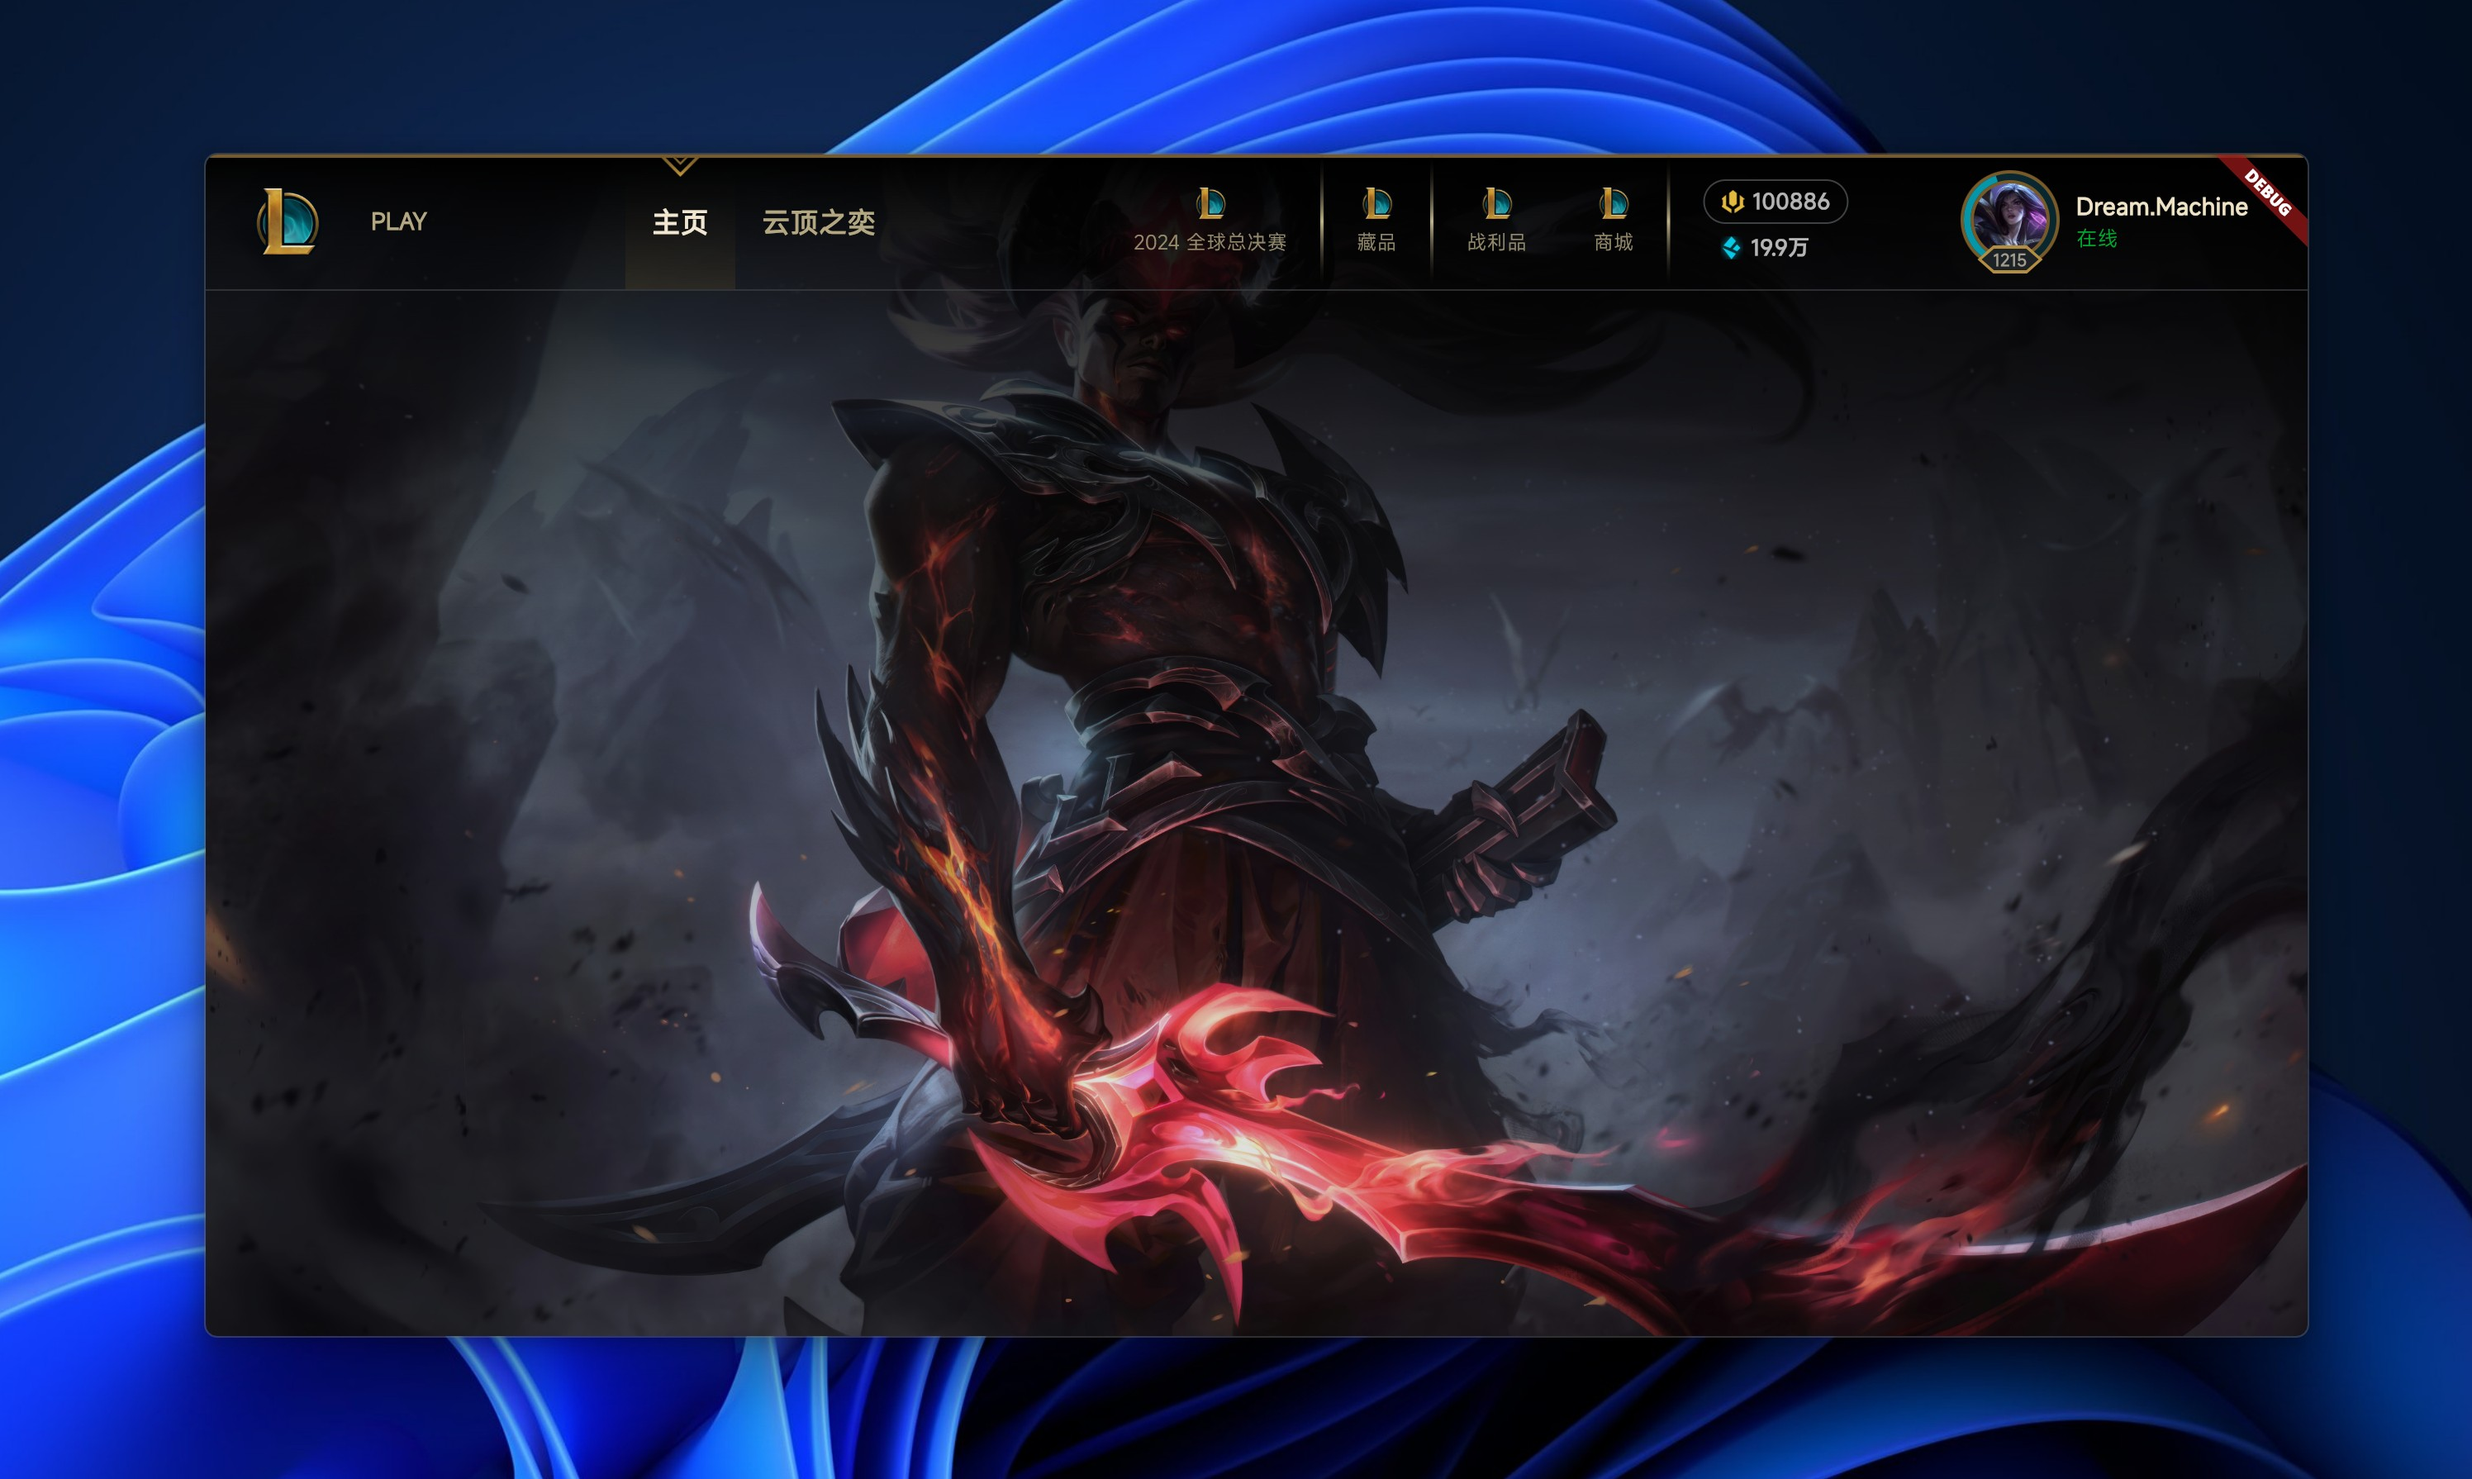
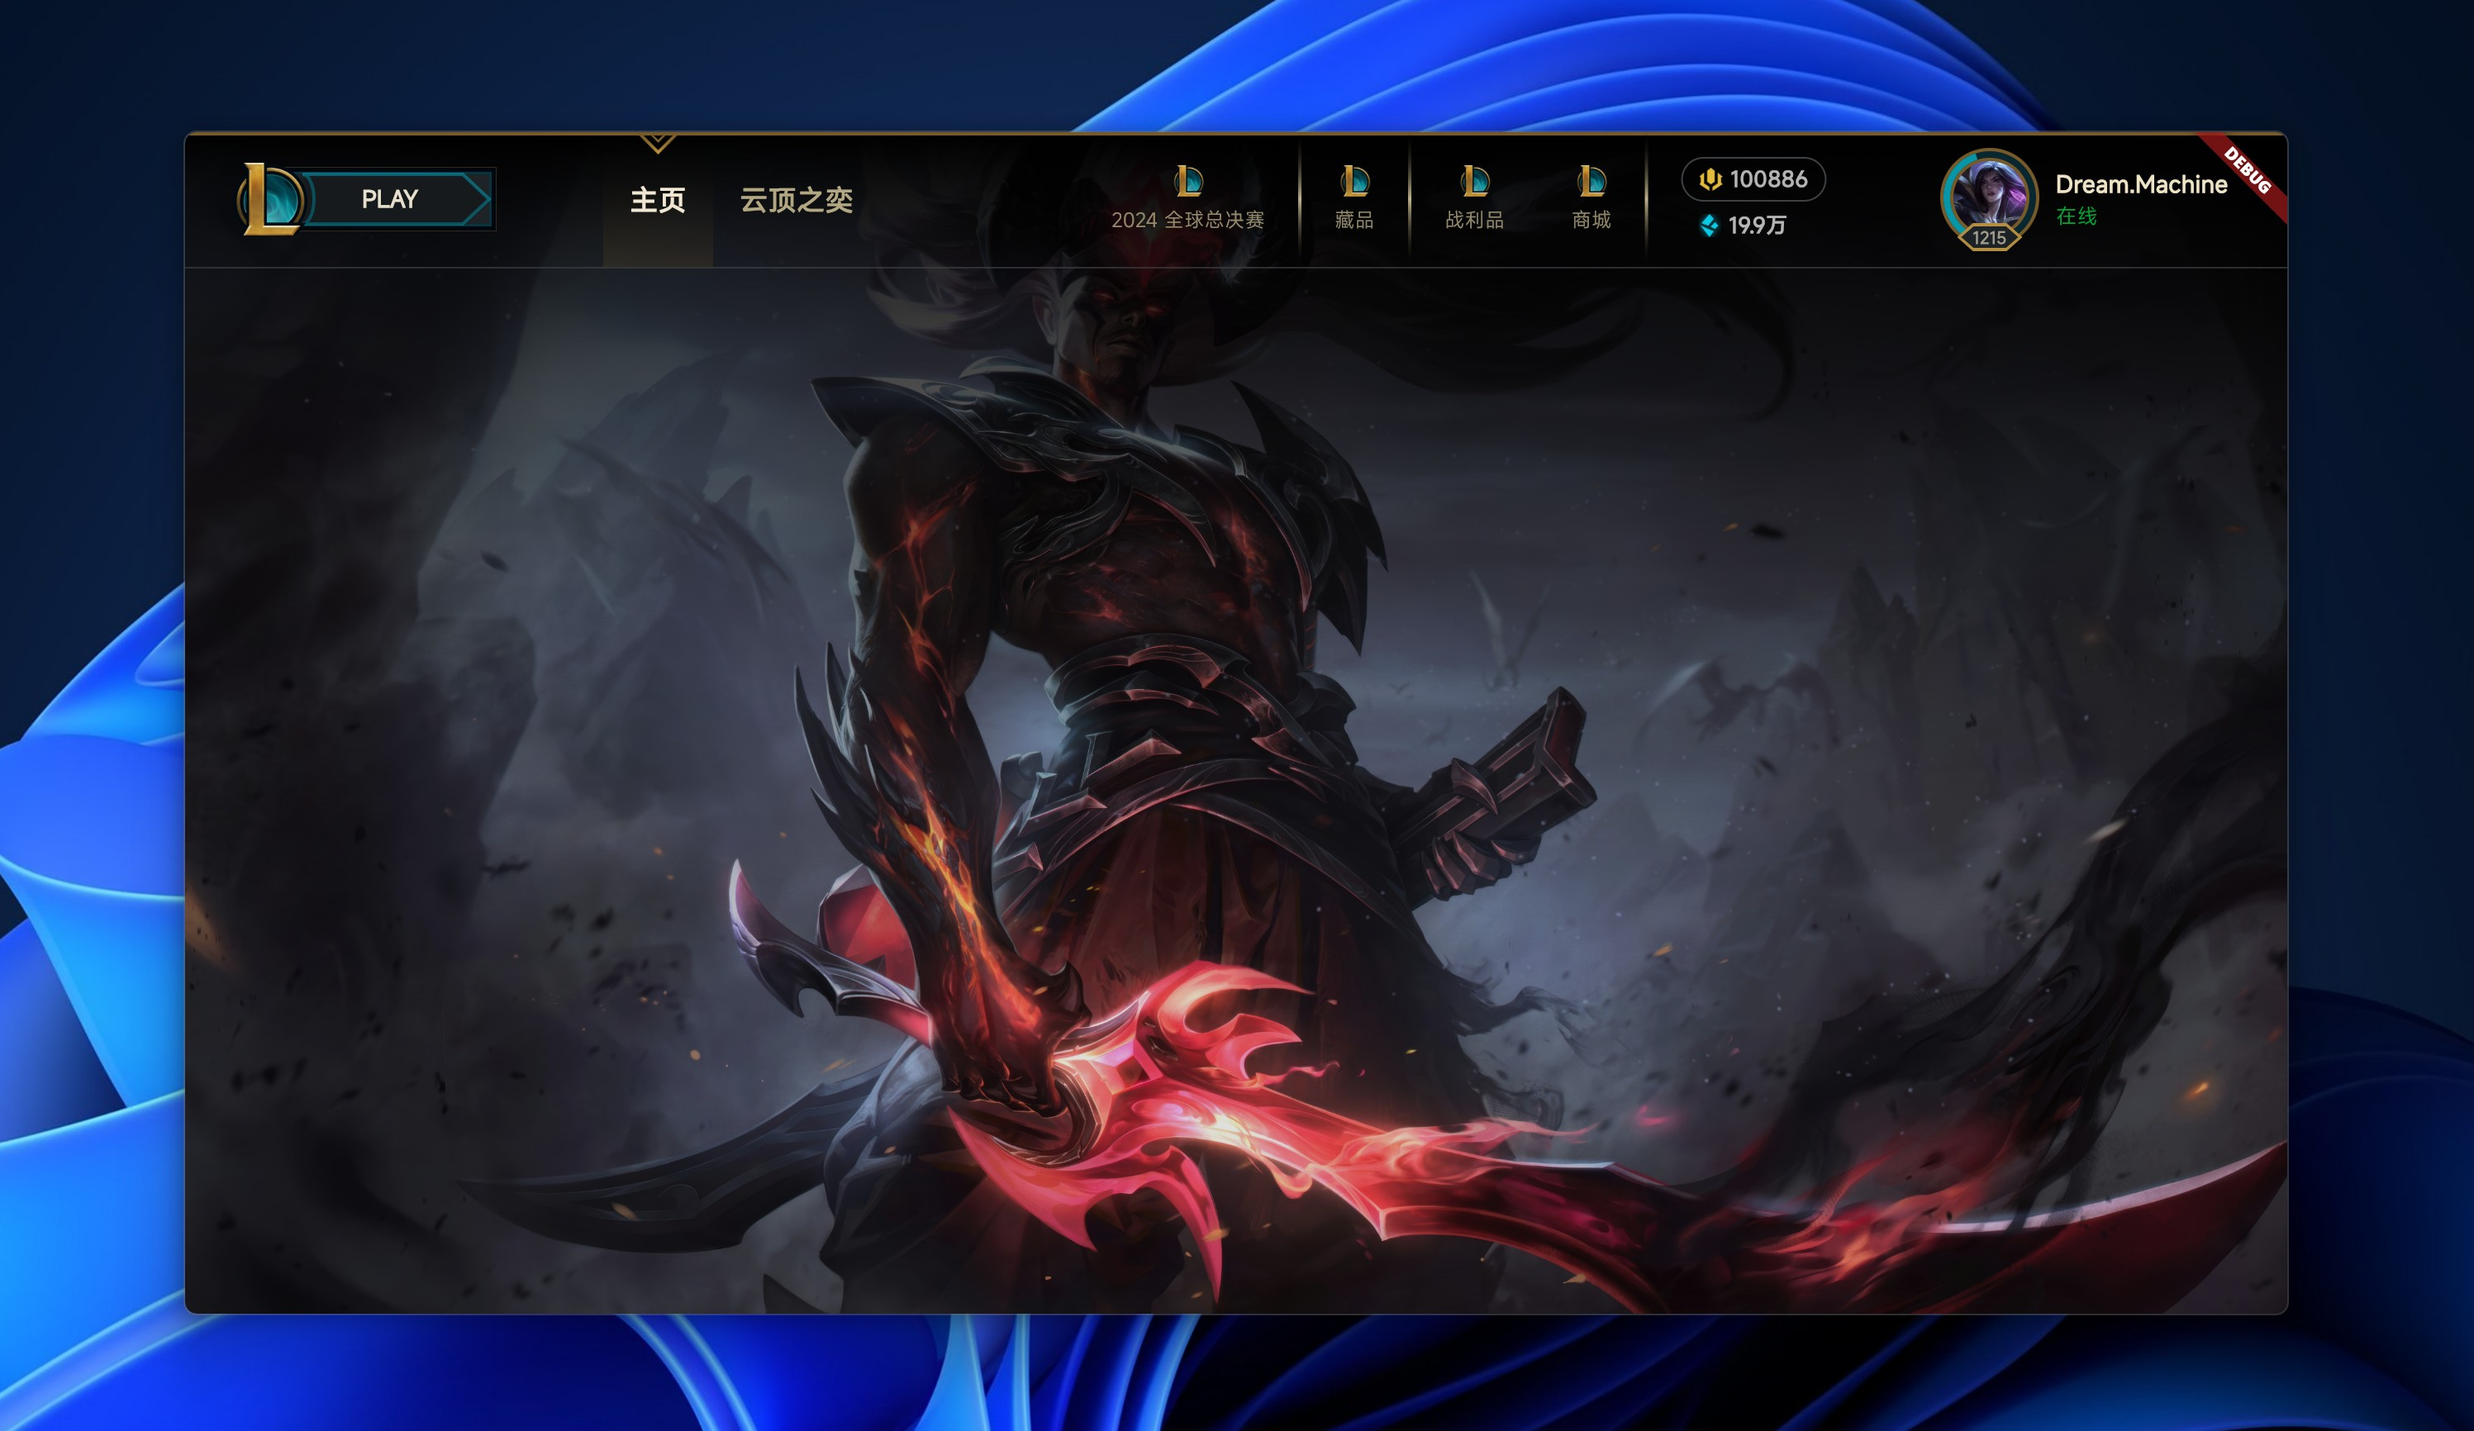
增加 开始游戏按钮

diff --git a/leagueoflegends/lib/pages/frame/widgets/top_play_button.dart b/leagueoflegends/lib/pages/frame/widgets/top_play_button.dart
@@ -1,0 +1,179 @@
+import 'dart:math';
+import 'dart:ui';
+
+import 'package:flutter/material.dart' hide Gradient;
+import 'package:leagueoflegends/common/index.dart';
+
+/// 顶部开始游戏按钮
+class TopPlayButton extends StatefulWidget {
+  const TopPlayButton({super.key});
+
+  @override
+  State<TopPlayButton> createState() => _TopPlayButtonState();
+}
+
+class _TopPlayButtonState extends State<TopPlayButton> {
+  bool hover = false;
+
+  @override
+  Widget build(BuildContext context) {
+    return SizedBox(
+      width: 160,
+      child: Stack(
+        fit: StackFit.expand,
+        children: [
+          Positioned(
+            left: 32,
+            right: 0,
+            top: 22,
+            bottom: 22,
+            child: MouseRegion(
+              cursor: SystemMouseCursors.click,
+              onEnter: (event) {
+                setState(() {
+                  hover = true;
+                });
+              },
+              onExit: (event) {
+                setState(() {
+                  hover = false;
+                });
+              },
+              child: CustomPaint(
+                painter: PlayPainter(hover),
+                child: const Center(
+                  child: Text(
+                    "PLAY",
+                    style: TextStyle(
+                      fontSize: 14,
+                      color: Color(0xFFe7decb),
+                      fontWeight: FontWeight.bold,
+                    ),
+                  ),
+                ),
+              ),
+            ),
+          ),
+          Align(
+            alignment: Alignment.centerLeft,
+            child: Image.asset(
+              AssetsImages.lolLogo,
+              width: 46,
+              height: 46,
+            ),
+          ),
+        ],
+      ),
+    );
+  }
+}
+
+class PlayPainter extends CustomPainter {
+  final bool hover;
+
+  const PlayPainter(this.hover);
+
+  @override
+  void paint(Canvas canvas, Size size) {
+    double gap = 4;
+
+    // 边框
+    Path border1 = Path();
+    border1.lineTo(size.width, 0);
+    border1.lineTo(size.width, size.height);
+    border1.lineTo(0, size.height);
+    border1.lineTo(0, 0);
+
+    // 绘制边框
+    Paint paint = Paint();
+    paint.color = const Color(0xFF34291E);
+    paint.style = PaintingStyle.stroke;
+    paint.strokeWidth = 1;
+    canvas.drawPath(border1, paint);
+
+    // 绘制背景
+    Paint paint1 = Paint()..color = const Color(0xFF00070E);
+    canvas.drawRect(Rect.fromLTRB(0, 0, size.width, size.height), paint1);
+
+    // 边框
+    Path border2 = Path();
+    border2.moveTo(gap, gap);
+    border2.lineTo(size.width - gap, gap);
+    border2.lineTo(size.width - gap, size.height - gap);
+    border2.lineTo(gap, size.height - gap);
+    border2.lineTo(gap, gap);
+
+    Paint paint2 = Paint();
+    paint2.color = const Color(0xFF09343D);
+    paint2.style = PaintingStyle.stroke;
+    paint2.strokeWidth = 3;
+    canvas.drawPath(border2, paint2);
+
+    // 绘制背景
+    Paint paint3 = Paint()..color = const Color(0xFF1E2328);
+    canvas.drawRect(
+        Rect.fromLTRB(gap, gap, size.width - gap, size.height - gap), paint3);
+
+    // 绘制箭头
+    Path borde3 = Path();
+    borde3.moveTo(3 * gap, gap);
+    borde3.lineTo(size.width - gap * 5, gap);
+    borde3.lineTo(size.width - gap, size.height / 2);
+    borde3.lineTo(size.width - gap * 5, size.height - gap);
+    borde3.lineTo(3 * gap, size.height - gap);
+    //borde3.lineTo(gap, gap);
+    borde3.arcTo(
+      Rect.fromLTWH(gap, gap, 14, size.height - 2 * gap),
+      3 * pi / 2,
+      pi,
+      true,
+    );
+    Paint paintTop = Paint();
+    paintTop.color = const Color(0xCC0493A7);
+    paintTop.style = PaintingStyle.stroke;
+    paintTop.strokeWidth = 2;
+
+    if (hover) {
+      paintTop.shader = Gradient.linear(
+        Offset.zero,
+        Offset.zero,
+        [
+          const Color(0xFFAFF5FF),
+          const Color(0xFF46E6FF),
+          const Color(0xFF00ADD4),
+        ],
+        [
+          0,
+          .5,
+          1,
+        ],
+      );
+    } else {
+      paintTop.shader = Gradient.linear(
+        Offset.zero,
+        Offset.zero,
+        [
+          const Color(0XCC3FE7FF),
+          const Color(0XCC006D7D),
+          const Color(0XCC0493A7),
+        ],
+        [
+          0,
+          .5,
+          1,
+        ],
+      );
+    }
+    Paint paintTopFill = Paint();
+    paintTopFill.color = const Color(0xFF1e2328);
+    canvas.drawPath(borde3, paintTopFill);
+
+    canvas.drawPath(borde3, paintTop);
+    canvas.drawShadow(borde3, Colors.black, 1, false);
+  }
+
+  @override
+  bool shouldRepaint(covariant CustomPainter oldDelegate) {
+    return true;
+  }
+}

diff --git a/leagueoflegends/lib/pages/frame/widgets/top_menu_item.dart b/leagueoflegends/lib/pages/frame/widgets/top_menu_item.dart
@@ -27,34 +27,37 @@ abstract class TopMenuItem extends StatelessWidget {
         onTap?.call(index);
       },
       behavior: HitTestBehavior.opaque,
-      child: DecoratedBox(
-        decoration: BoxDecoration(
-          gradient: selectd
-              ? const LinearGradient(
-                  colors: [
-                    Colors.transparent,
-                    SystemColors.themeColor20,
-                  ],
-                  begin: Alignment.topCenter,
-                  end: Alignment.bottomCenter,
-                )
-              : null,
-        ),
-        child: Stack(
-          fit: StackFit.passthrough,
-          children: [
-            if (selectd)
-              Positioned(
-                left: 0,
-                top: 2,
-                right: 0,
-                child: Image.asset(
-                  AssetsImages.menuSelected,
-                  height: 12,
+      child: MouseRegion(
+        cursor: SystemMouseCursors.click,
+        child: DecoratedBox(
+          decoration: BoxDecoration(
+            gradient: selectd
+                ? const LinearGradient(
+                    colors: [
+                      Colors.transparent,
+                      SystemColors.themeColor20,
+                    ],
+                    begin: Alignment.topCenter,
+                    end: Alignment.bottomCenter,
+                  )
+                : null,
+          ),
+          child: Stack(
+            fit: StackFit.passthrough,
+            children: [
+              if (selectd)
+                Positioned(
+                  left: 0,
+                  top: 2,
+                  right: 0,
+                  child: Image.asset(
+                    AssetsImages.menuSelected,
+                    height: 12,
+                  ),
                 ),
-              ),
-            buildView(),
-          ],
+              buildView(),
+            ],
+          ),
         ),
       ),
     );

diff --git a/leagueoflegends/lib/pages/frame/widgets/top_menu.dart b/leagueoflegends/lib/pages/frame/widgets/top_menu.dart
@@ -1,10 +1,10 @@
 import 'package:flutter/widgets.dart';
 import 'package:flutter_styled/size_extension.dart';
-import 'package:get/get.dart';
 import 'package:leagueoflegends/common/values/images.dart';
 import 'package:leagueoflegends/pages/frame/widgets/top_menu_divider.dart';
 import 'package:leagueoflegends/pages/frame/widgets/top_menu_horizontal_item.dart';
 import 'package:leagueoflegends/pages/frame/widgets/top_menu_vertical_item.dart';
+import 'package:leagueoflegends/pages/frame/widgets/top_play_button.dart';
 
 /// 顶部菜单
 class TopMenu extends StatefulWidget {
@@ -20,7 +20,7 @@ class _TopMenuState extends State<TopMenu> {
   @override
   void initState() {
     super.initState();
-    selectIndex = 0;
+    selectIndex = 1;
   }
 
   @override
@@ -29,19 +29,8 @@ class _TopMenuState extends State<TopMenu> {
       crossAxisAlignment: CrossAxisAlignment.stretch,
       children: [
         28.horizontalSpace,
-        Image.asset(
-          AssetsImages.lolLogo,
-          width: 42,
-          height: 42,
-        ),
-        30.horizontalSpace,
-        const Center(
-          child: Text(
-            "PLAY",
-            style: TextStyle(fontWeight: FontWeight.bold),
-          ),
-        ),
-        120.horizontalSpace,
+        const TopPlayButton(),
+        65.horizontalSpace,
         TopMenuHorizontalItem(
           title: "主页",
           index: 1,

diff --git a/leagueoflegends/lib/common/values/svgs.dart b/leagueoflegends/lib/common/values/svgs.dart
@@ -1,3 +1,4 @@
 /// svgs assets
 class AssetsSvgs {
+  static const playButtonSvg = 'assets/svgs/play_button.svg';
 }
